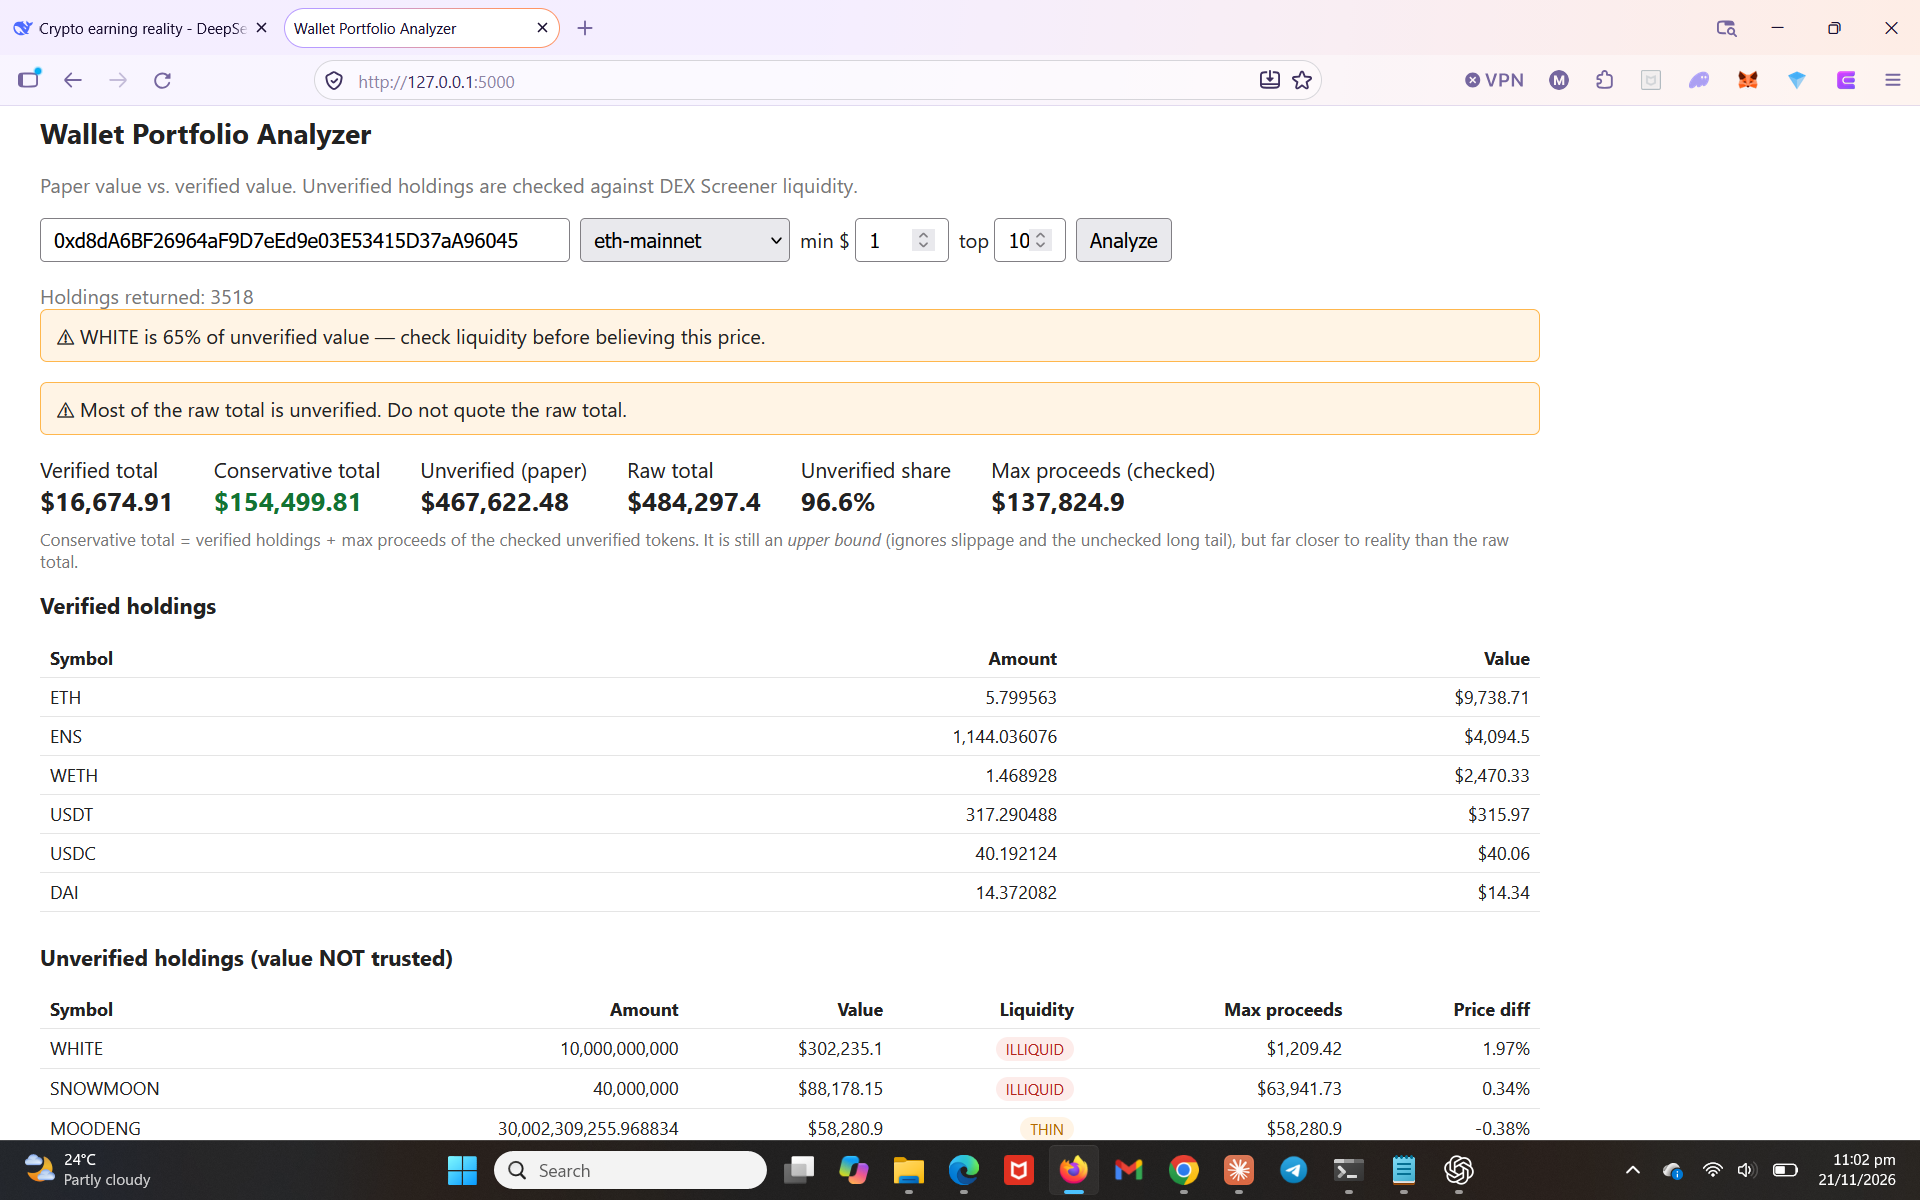
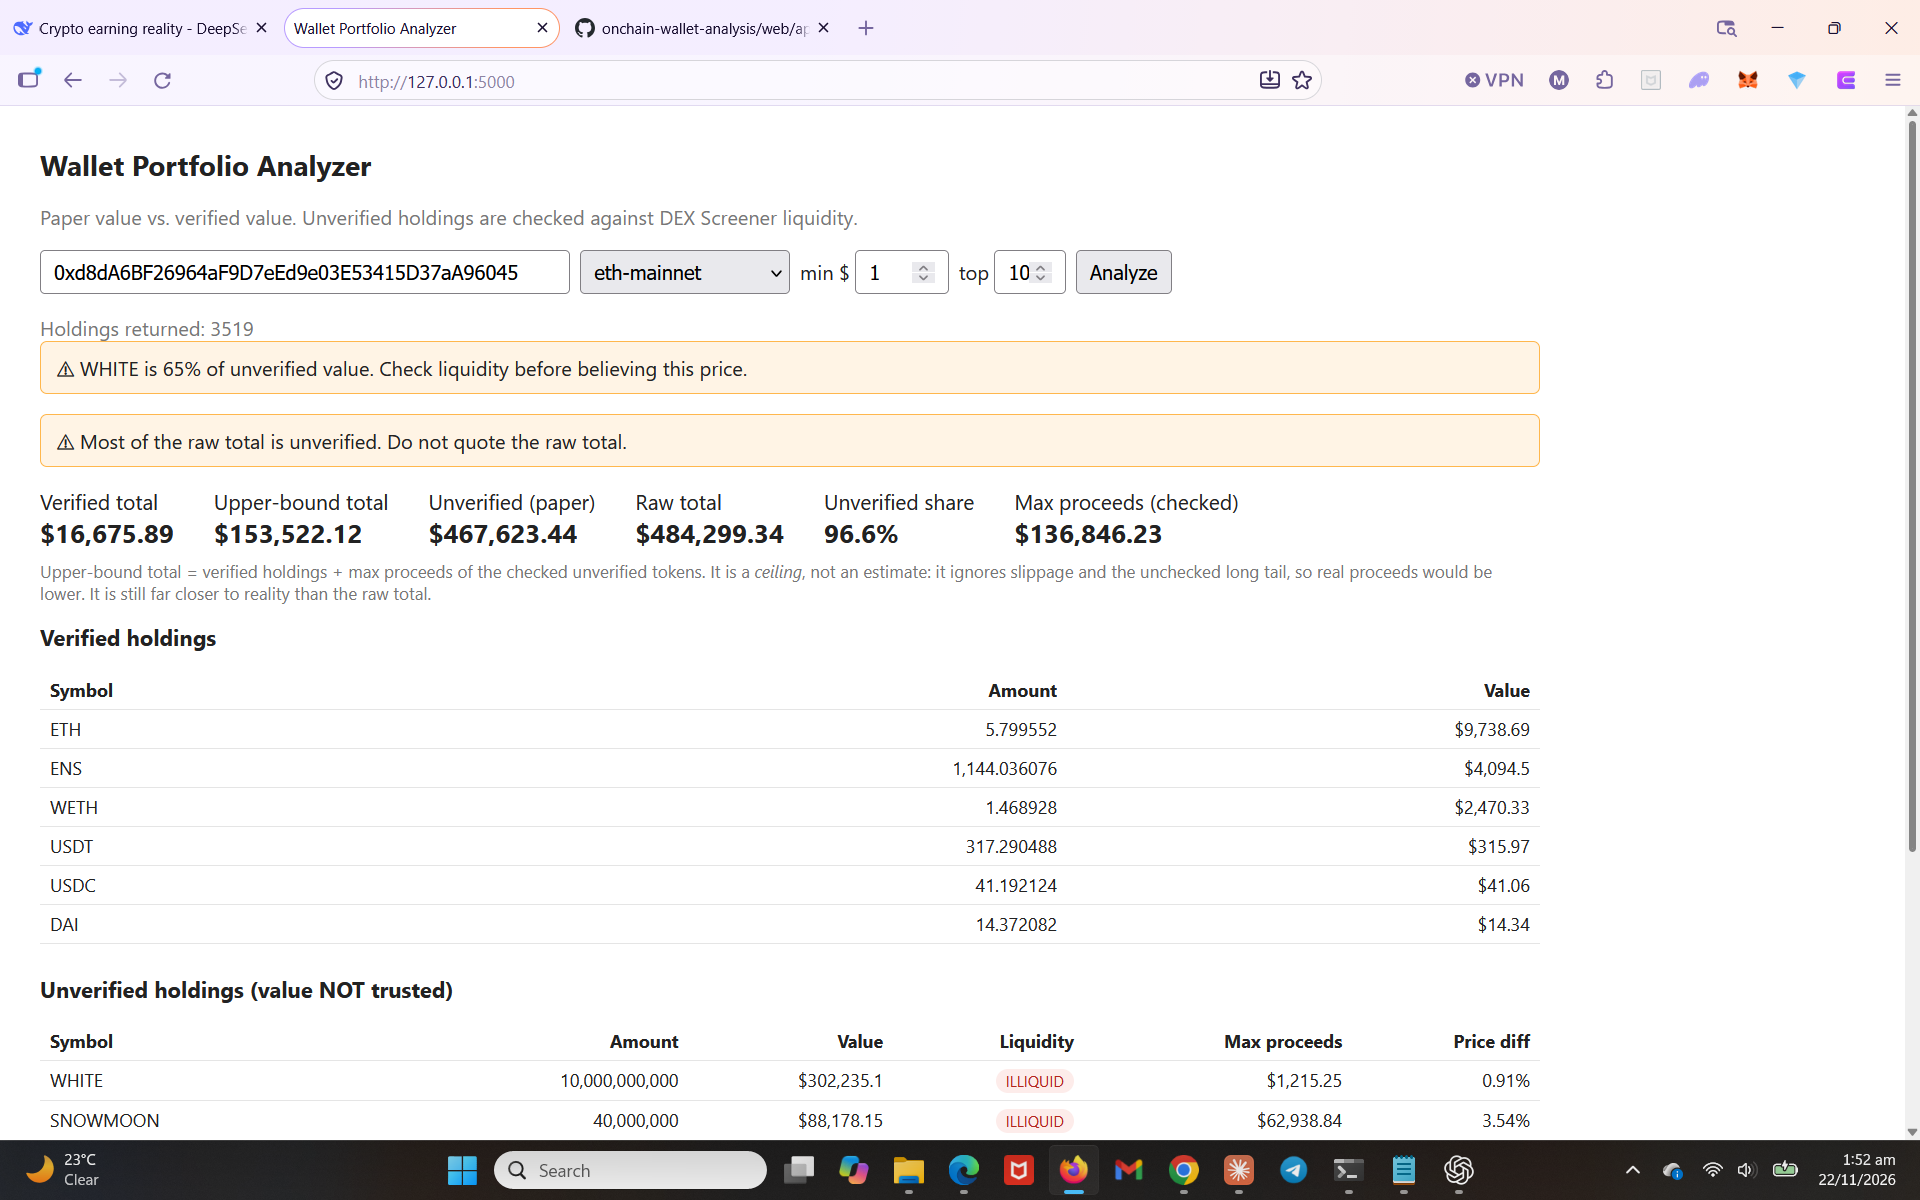
Fix USD formatting and update screenshot

diff --git a/web/app.py b/web/app.py
@@ -311,7 +311,7 @@ function esc(v) {
 }
 function fmtUsd(v) {
   if (v === null || v === undefined) return "n/a";
-  return "$" + Number(v).toLocaleString(undefined, {maximumFractionDigits: 2});
+  return "$" + Number(v).toLocaleString(undefined, {minimumFractionDigits: 2, maximumFractionDigits: 2});
 }
 function fmtAmt(v) {
   return Number(v).toLocaleString(undefined, {maximumFractionDigits: 6});
